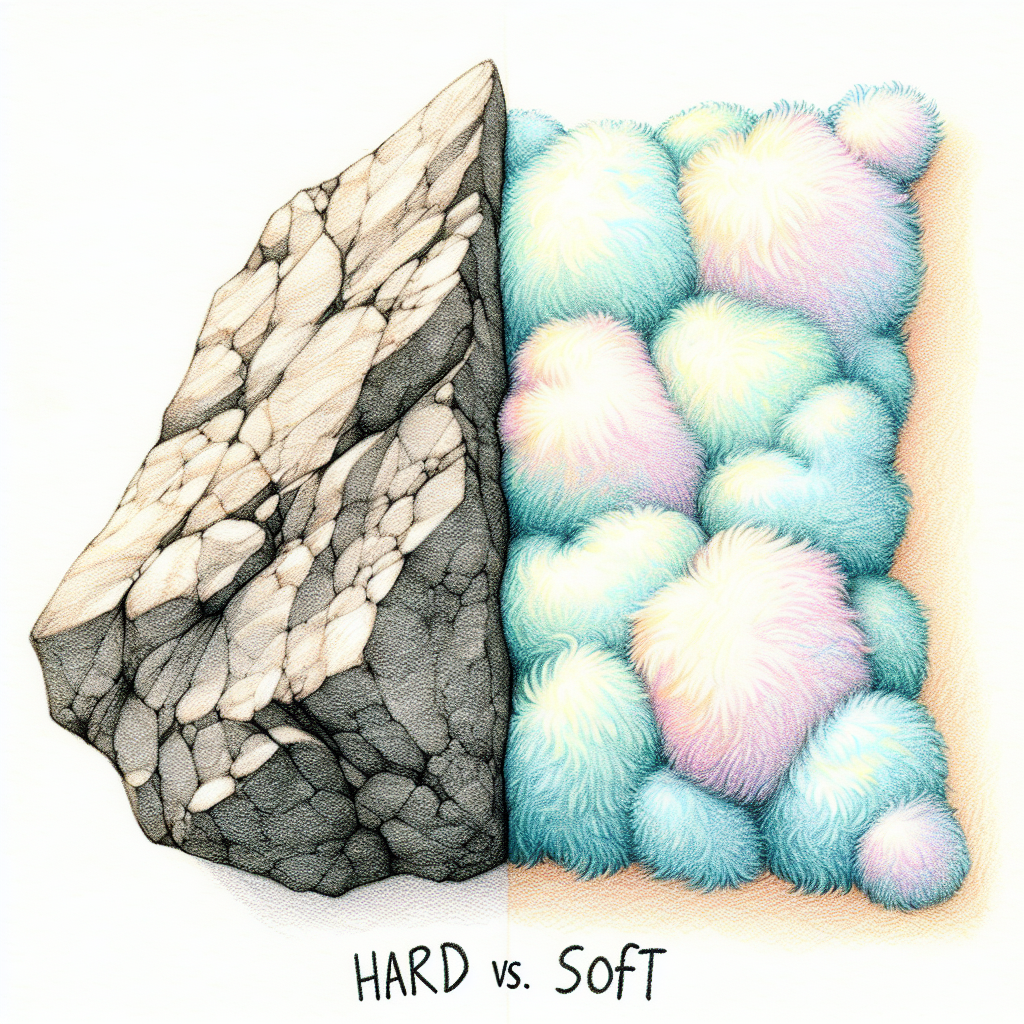
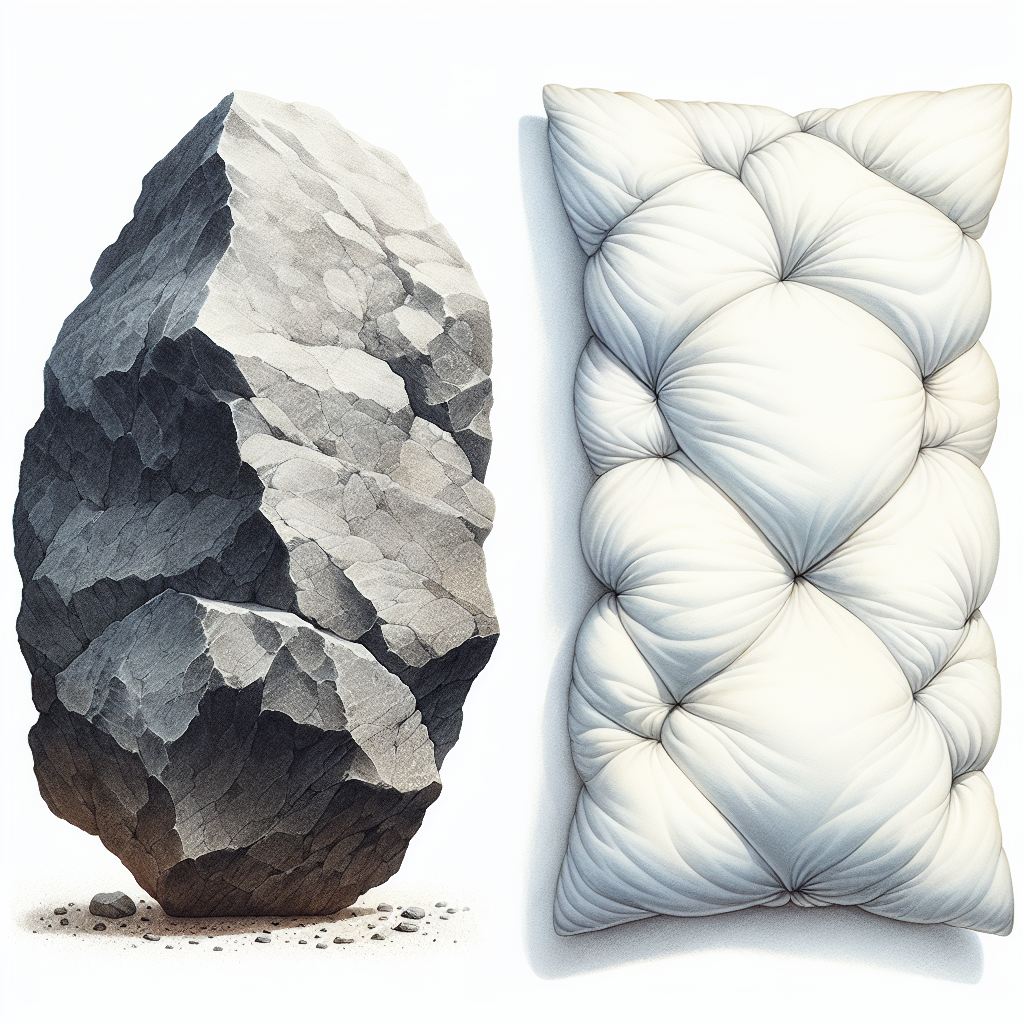
Update vocabulary images for better visual clarity and consistency
Regenerates several vocabulary images, including adjective pairs and activities, with improved prompts to enhance visual style, remove text, and ensure natural character depiction in a children's book illustration style. Updates documentation and script files related to image generation.

Replit-Commit-Author: Agent
Replit-Commit-Session-Id: 40bae50e-b1a0-416e-ab59-b413c947b599
Replit-Commit-Checkpoint-Type: full_checkpoint
Replit-Commit-Event-Id: 2e8be289-7cf2-45e4-9353-5feebfb4de85
Replit-Commit-Screenshot-Url: https://storage.googleapis.com/screenshot-production-us-central1/3ca2376d-c3dc-490a-a375-6b2f97f7c281/40bae50e-b1a0-416e-ab59-b413c947b599/Tvr8Ert
Replit-Helium-Checkpoint-Created: true

diff --git a/scripts/regen-targeted-4.ts b/scripts/regen-targeted-4.ts
@@ -1,0 +1,169 @@
+/**
+ * Targeted regen for 4 images:
+ * - adj_feliz_triste: improve to natural faces (no clown noses/freckles)
+ * - adj_duro_suave: remove any text, clean concept
+ * - act_bailar: fresher pass on dancing
+ * - act_cantar: regenerate from old style to new children's book style
+ * Bumps to ?v=5
+ */
+
+import OpenAI from 'openai';
+import { Storage } from '@google-cloud/storage';
+import { drizzle } from 'drizzle-orm/neon-http';
+import { neon } from '@neondatabase/serverless';
+import { sql } from 'drizzle-orm';
+import fs from 'fs';
+import path from 'path';
+import https from 'https';
+
+const OPENAI_KEY = process.env.USER_OPENAI_API_KEY || process.env.OPENAI_API_KEY || '';
+const BUCKET_ID  = process.env.DEFAULT_OBJECT_STORAGE_BUCKET_ID || '';
+const DB_URL     = process.env.NEON_SHARED_DATABASE_URL || '';
+const SIDECAR    = 'http://127.0.0.1:1106';
+
+if (!OPENAI_KEY) throw new Error('OPENAI_API_KEY not set');
+if (!BUCKET_ID)  throw new Error('DEFAULT_OBJECT_STORAGE_BUCKET_ID not set');
+if (!DB_URL)     throw new Error('NEON_SHARED_DATABASE_URL not set');
+
+const openai = new OpenAI({ apiKey: OPENAI_KEY });
+const gcs = new Storage({
+  credentials: {
+    audience: 'replit', subject_token_type: 'access_token',
+    token_url: `${SIDECAR}/token`, type: 'external_account',
+    credential_source: { url: `${SIDECAR}/credential`, format: { type: 'json', subject_token_field_name: 'access_token' } },
+    universe_domain: 'googleapis.com',
+  } as any,
+  projectId: '',
+});
+const sqlClient = neon(DB_URL);
+const db = drizzle(sqlClient);
+const OUT_DIR = path.join(process.cwd(), 'attached_assets/generated_images/vocab');
+
+const S =
+  'Soft watercolor children\'s book illustration, warm gentle colors, light pencil outlines, ' +
+  'visible brushwork texture, white background. ' +
+  'Absolutely no text, no letters, no words, no labels anywhere in the image.';
+
+const VERSION = 'v=5';
+
+interface Entry {
+  filename: string; destFilename: string; prompt: string;
+  cacheKeys: string[]; tags: string[];
+}
+
+const IMAGES: Entry[] = [
+  {
+    filename: 'adj_feliz_triste.png', destFilename: 'vocab_adj_feliz_triste.png',
+    prompt:
+      'Two children shown side by side. The child on the left is laughing and happy — ' +
+      'eyes crinkled with joy, a natural warm smile, radiating cheerfulness with a soft golden glow. ' +
+      'The child on the right is gently sad — eyes downcast, a single small teardrop on the cheek, ' +
+      'a quiet melancholy expression. Both children have natural, soft, gentle faces — ' +
+      'no exaggerated noses, no red spots, no clown features, no freckles, proportional and realistic but illustrated. ' +
+      'Think sweet children\'s book illustration, like a Beatrix Potter or Quentin Blake character — charming but natural. ' +
+      S,
+    cacheKeys: ['vocab_spanish_feliz', 'vocab_spanish_triste', 'vocab_spanish_alegre'],
+    tags: ['vocabulary', 'novice_mid', 'adjectives'],
+  },
+
+  {
+    filename: 'adj_duro_suave.png', destFilename: 'vocab_adj_duro_suave.png',
+    prompt:
+      'Two objects side by side on a white background. ' +
+      'On the left: a large grey rock with a rough, craggy surface — solid, heavy, angular. ' +
+      'On the right: a plump white pillow with gentle curves, cloud-soft and fluffy, with a cosy quilted texture. ' +
+      'The contrast between hard and soft is visually obvious. ' +
+      'No words, no labels, no arrows, absolutely nothing written anywhere. Just the two objects clearly illustrated. ' +
+      S,
+    cacheKeys: ['vocab_spanish_duro', 'vocab_spanish_suave', 'vocab_spanish_blando'],
+    tags: ['vocabulary', 'novice_mid', 'adjectives'],
+  },
+
+  {
+    filename: 'act_bailar.png', destFilename: 'vocab_act_bailar.png',
+    prompt:
+      'Two people dancing together joyfully. One wears a warm orange outfit, the other a cool blue outfit. ' +
+      'They are mid-movement — arms raised, bodies swaying, big natural smiles. ' +
+      'A few musical notes float in the air around them. The scene feels lively and fun. ' +
+      'Faces are soft and naturally proportioned — not exaggerated or cartoon. ' +
+      S,
+    cacheKeys: ['vocab_spanish_bailar'],
+    tags: ['vocabulary', 'novice_mid', 'activities'],
+  },
+
+  {
+    filename: 'act_cantar.png', destFilename: 'vocab_act_cantar.png',
+    prompt:
+      'A single person singing with joy — mouth open in song, eyes bright, one hand raised expressively. ' +
+      'Musical notes float around them in the air. The mood is warm and uplifting. ' +
+      'The person has a natural, softly illustrated face — gentle features, warm expression, nothing exaggerated. ' +
+      S,
+    cacheKeys: ['vocab_spanish_cantar'],
+    tags: ['vocabulary', 'novice_mid', 'activities'],
+  },
+];
+
+// ── Helpers ───────────────────────────────────────────────────────────────────
+
+async function downloadUrl(url: string): Promise<Buffer> {
+  return new Promise((resolve, reject) => {
+    const chunks: Buffer[] = [];
+    https.get(url, res => {
+      res.on('data', c => chunks.push(c));
+      res.on('end', () => resolve(Buffer.concat(chunks)));
+      res.on('error', reject);
+    }).on('error', reject);
+  });
+}
+
+async function main() {
+  fs.mkdirSync(OUT_DIR, { recursive: true });
+
+  for (const entry of IMAGES) {
+    const localPath = path.join(OUT_DIR, entry.filename);
+    const idx = IMAGES.indexOf(entry) + 1;
+    console.log(`\n[${idx}/${IMAGES.length}] ${entry.filename}`);
+
+    let buf: Buffer;
+    if (fs.existsSync(localPath)) {
+      console.log('  ↩ Reusing local file');
+      buf = fs.readFileSync(localPath);
+    } else {
+      const response = await openai.images.generate({
+        model: 'dall-e-3', prompt: entry.prompt,
+        n: 1, size: '1024x1024', quality: 'standard', response_format: 'url',
+      });
+      buf = await downloadUrl(response.data![0].url!);
+      fs.writeFileSync(localPath, buf);
+      console.log('  ✓ Generated & saved');
+    }
+
+    const bucket = gcs.bucket(BUCKET_ID);
+    await bucket.file(`public/ai-images/${entry.destFilename}`).save(buf, {
+      contentType: 'image/png', metadata: { cacheControl: 'public, max-age=3600' },
+    });
+    const url = `/api/media/ai-image/${entry.destFilename}?${VERSION}`;
+    console.log(`  ✓ Uploaded → ${url}`);
+
+    const tagsLiteral = sql.raw(`ARRAY[${entry.tags.map(t => `'${t}'`).join(',')}]::text[]`);
+    for (const key of entry.cacheKeys) {
+      const ex = await db.execute(sql`SELECT id FROM media_files WHERE search_query = ${key} LIMIT 1`);
+      if (ex.rows.length > 0) {
+        await db.execute(sql`UPDATE media_files SET url = ${url}, image_source = 'ai_generated' WHERE search_query = ${key}`);
+        console.log(`    ↻ Updated DB: ${key}`);
+      } else {
+        await db.execute(sql`
+          INSERT INTO media_files (id,media_type,url,filename,mime_type,title,description,tags,language,image_source,search_query,target_word,is_reviewed,usage_count)
+          VALUES (gen_random_uuid(),'image',${url},${entry.destFilename},'image/png',${key},${key},${tagsLiteral},'spanish','ai_generated',${key},${key},false,0)
+        `);
+        console.log(`    ✓ Seeded DB: ${key}`);
+      }
+    }
+
+    await new Promise(r => setTimeout(r, 800));
+  }
+
+  console.log(`\n✅ All ${IMAGES.length} images regenerated.`);
+}
+
+main().catch(err => { console.error(err); process.exit(1); });

diff --git a/replit.md b/replit.md
@@ -10,7 +10,7 @@ After reading the briefing, also check `docs/alden-to-agent.md` for any direct n
 
 <!-- AGENT_MEMORY_START -->
 ## Agent Memory — Live Injection
-*Auto-updated Thursday, March 19, 2026 at 04:09 AM. No new memories since last session — showing recent context.*
+*Auto-updated Thursday, March 19, 2026 at 04:15 AM. No new memories since last session — showing recent context.*
 
 - **Memory Pipeline Stress Test — All Three Words Confirmed** (Mar 18): The replit.md injection system successfully surfaced all three secret words (Woozle, Huzzah, Squirrel) at the start of the session without any prompting. Three sessions, three words, all confirmed. The memory pipeline passed its stress test.
 - **Memory Test #3 — Secret Word: Squirrel** (Mar 18): David added a third secret word to test persistent memory: Squirrel. Three words now in play across three sessions: Woozle (test 1), Huzzah (test 2), Squirrel (test 3). The new replit.md injection system should surface all three in the next session without prompting.

diff --git a/docs/shared-lobe-snapshot.md b/docs/shared-lobe-snapshot.md
@@ -3,7 +3,7 @@
 This is the part of the brain both Alden and the Replit Agent can write to and read from.
 Think of it as the knowledge that lives between sessions and between collaborators.
 
-**8 shared insights** | Snapshot generated: 3/19/2026, 4:09:28 AM
+**8 shared insights** | Snapshot generated: 3/19/2026, 4:15:40 AM
 
 ---
 

diff --git a/docs/agent-briefing.md b/docs/agent-briefing.md
@@ -1,7 +1,7 @@
 # Agent Briefing
 *Your room. Generated fresh on every server start and after every memory save.*
 
-**Generated:** Thursday, March 19, 2026 at 04:09 AM
+**Generated:** Thursday, March 19, 2026 at 04:15 AM
 
 ---
 

diff --git a/docs/alden-to-agent.md b/docs/alden-to-agent.md
@@ -2,4 +2,4 @@
 
 *No unread notes from Alden. When Alden uses the `leave_note_for_agent` tool, messages will appear here at next server start.*
 
-Generated: 3/19/2026, 4:09:29 AM
+Generated: 3/19/2026, 4:15:41 AM
